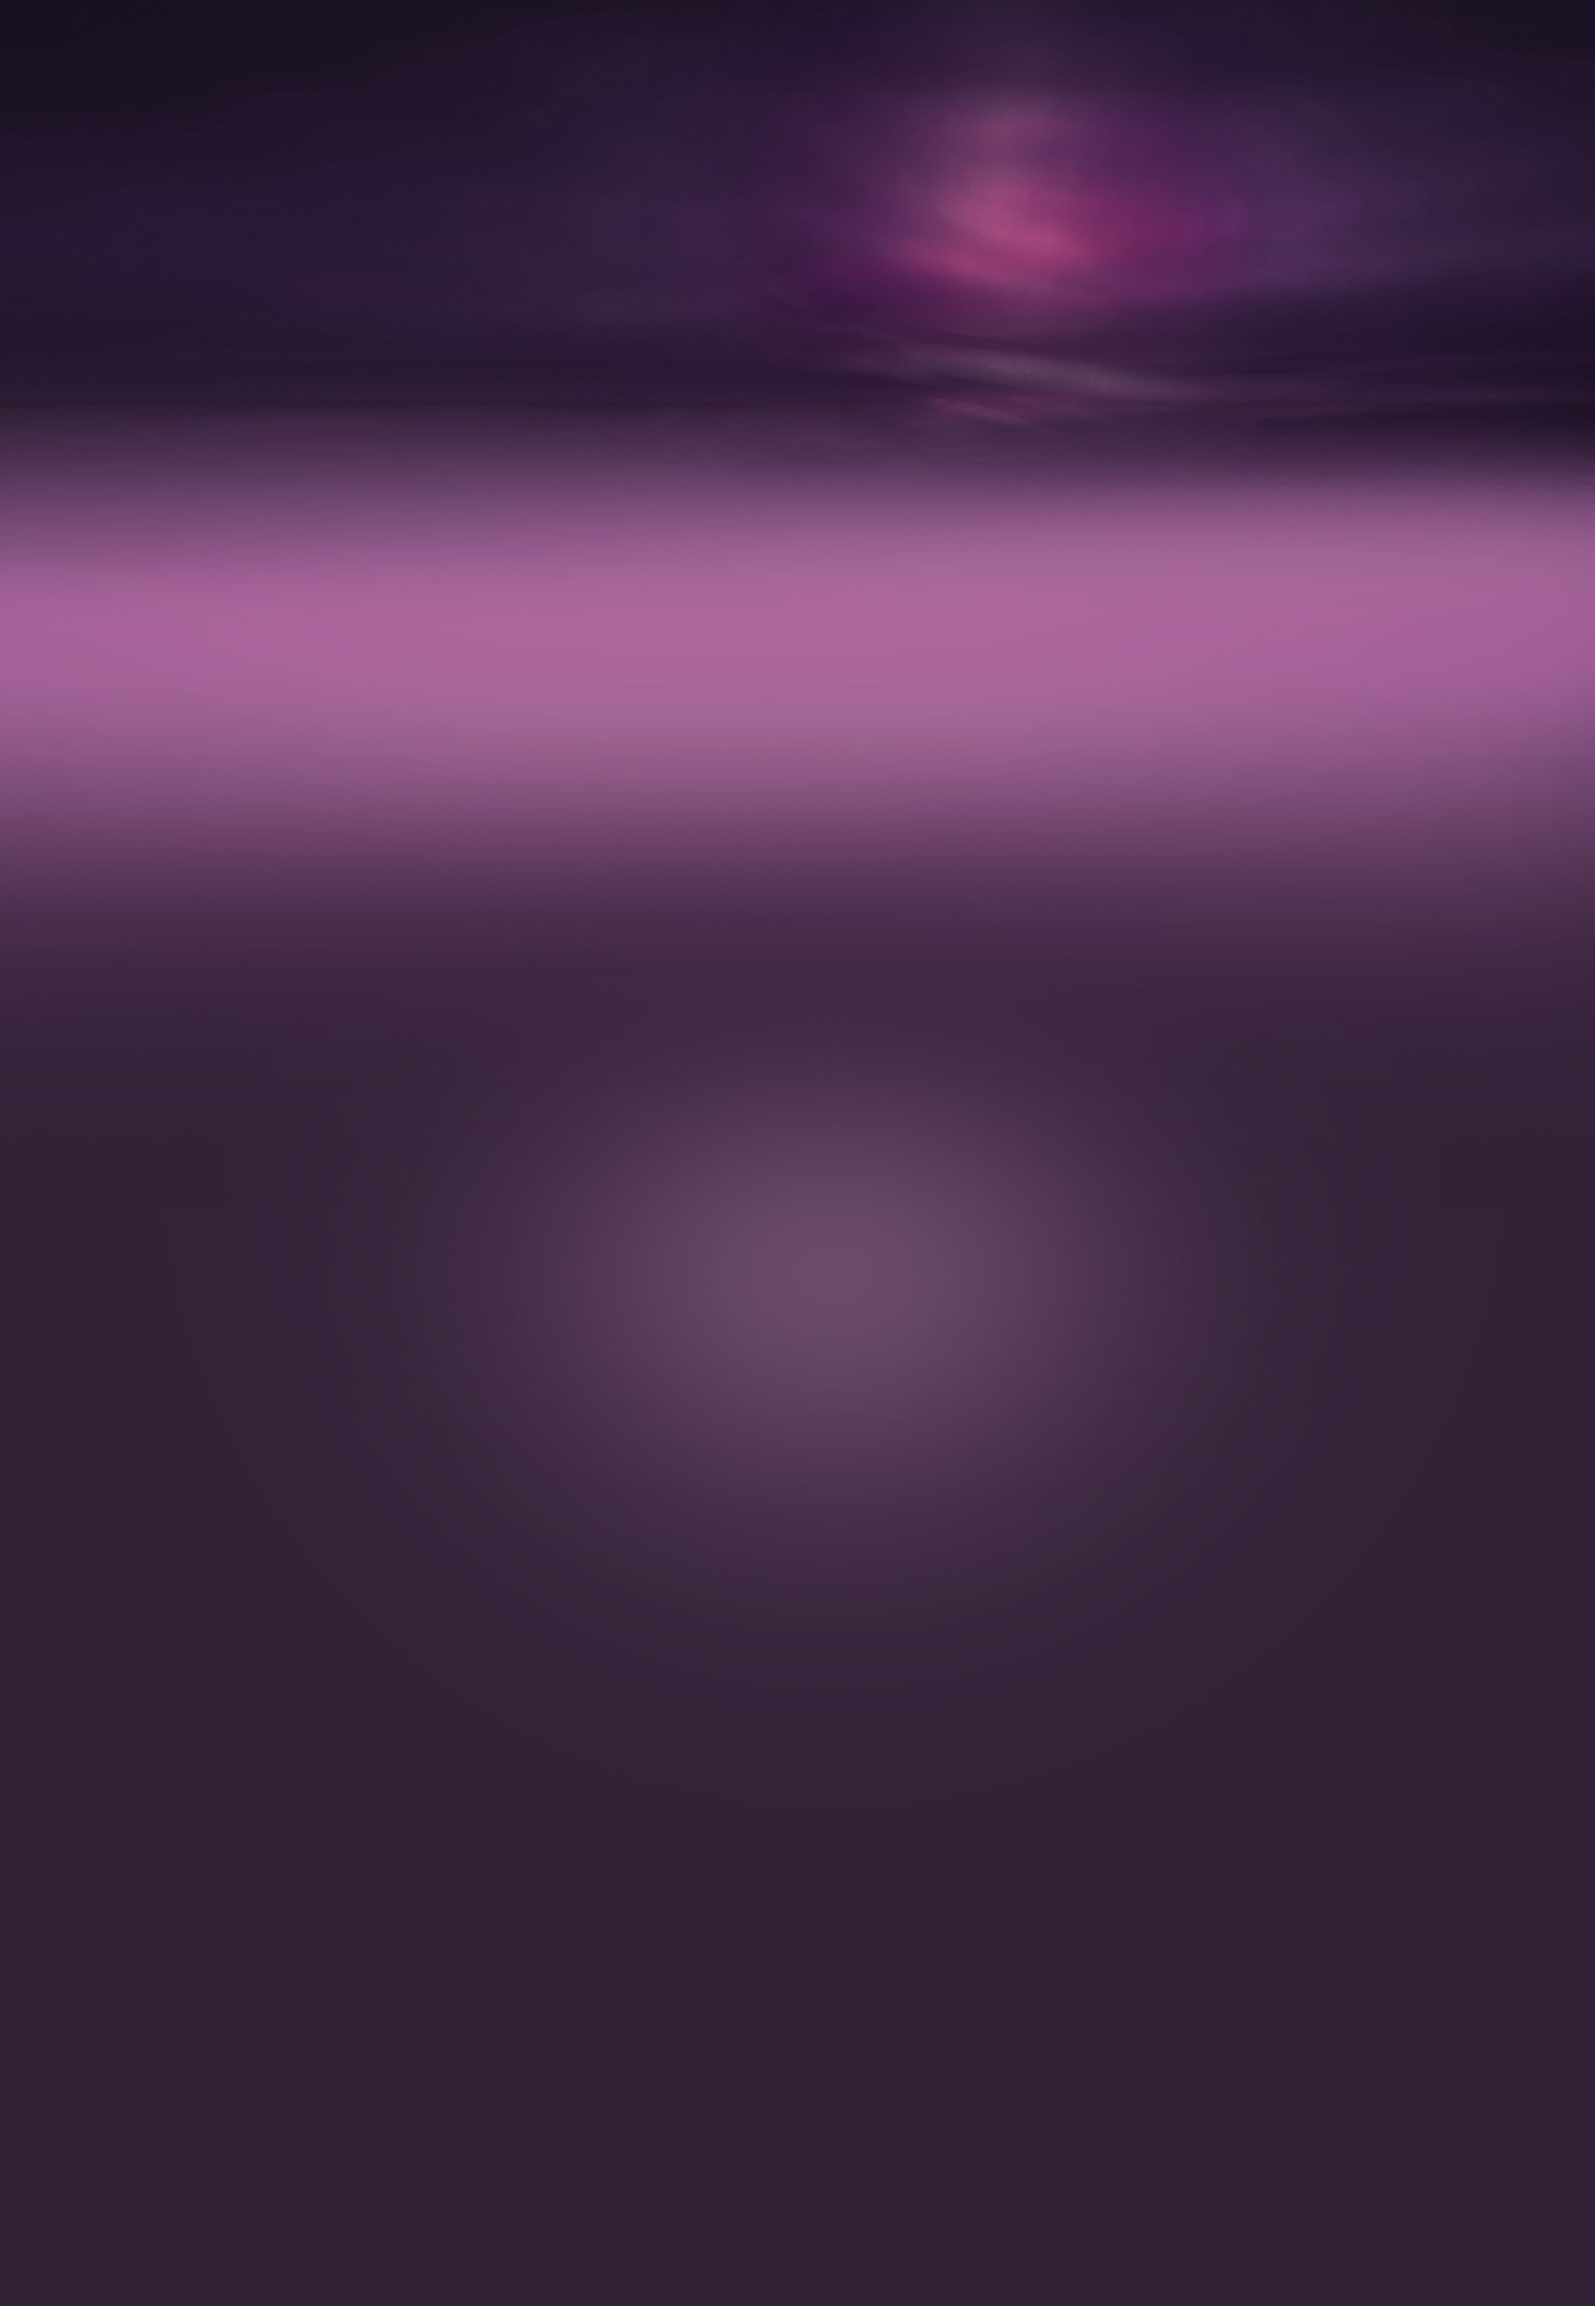
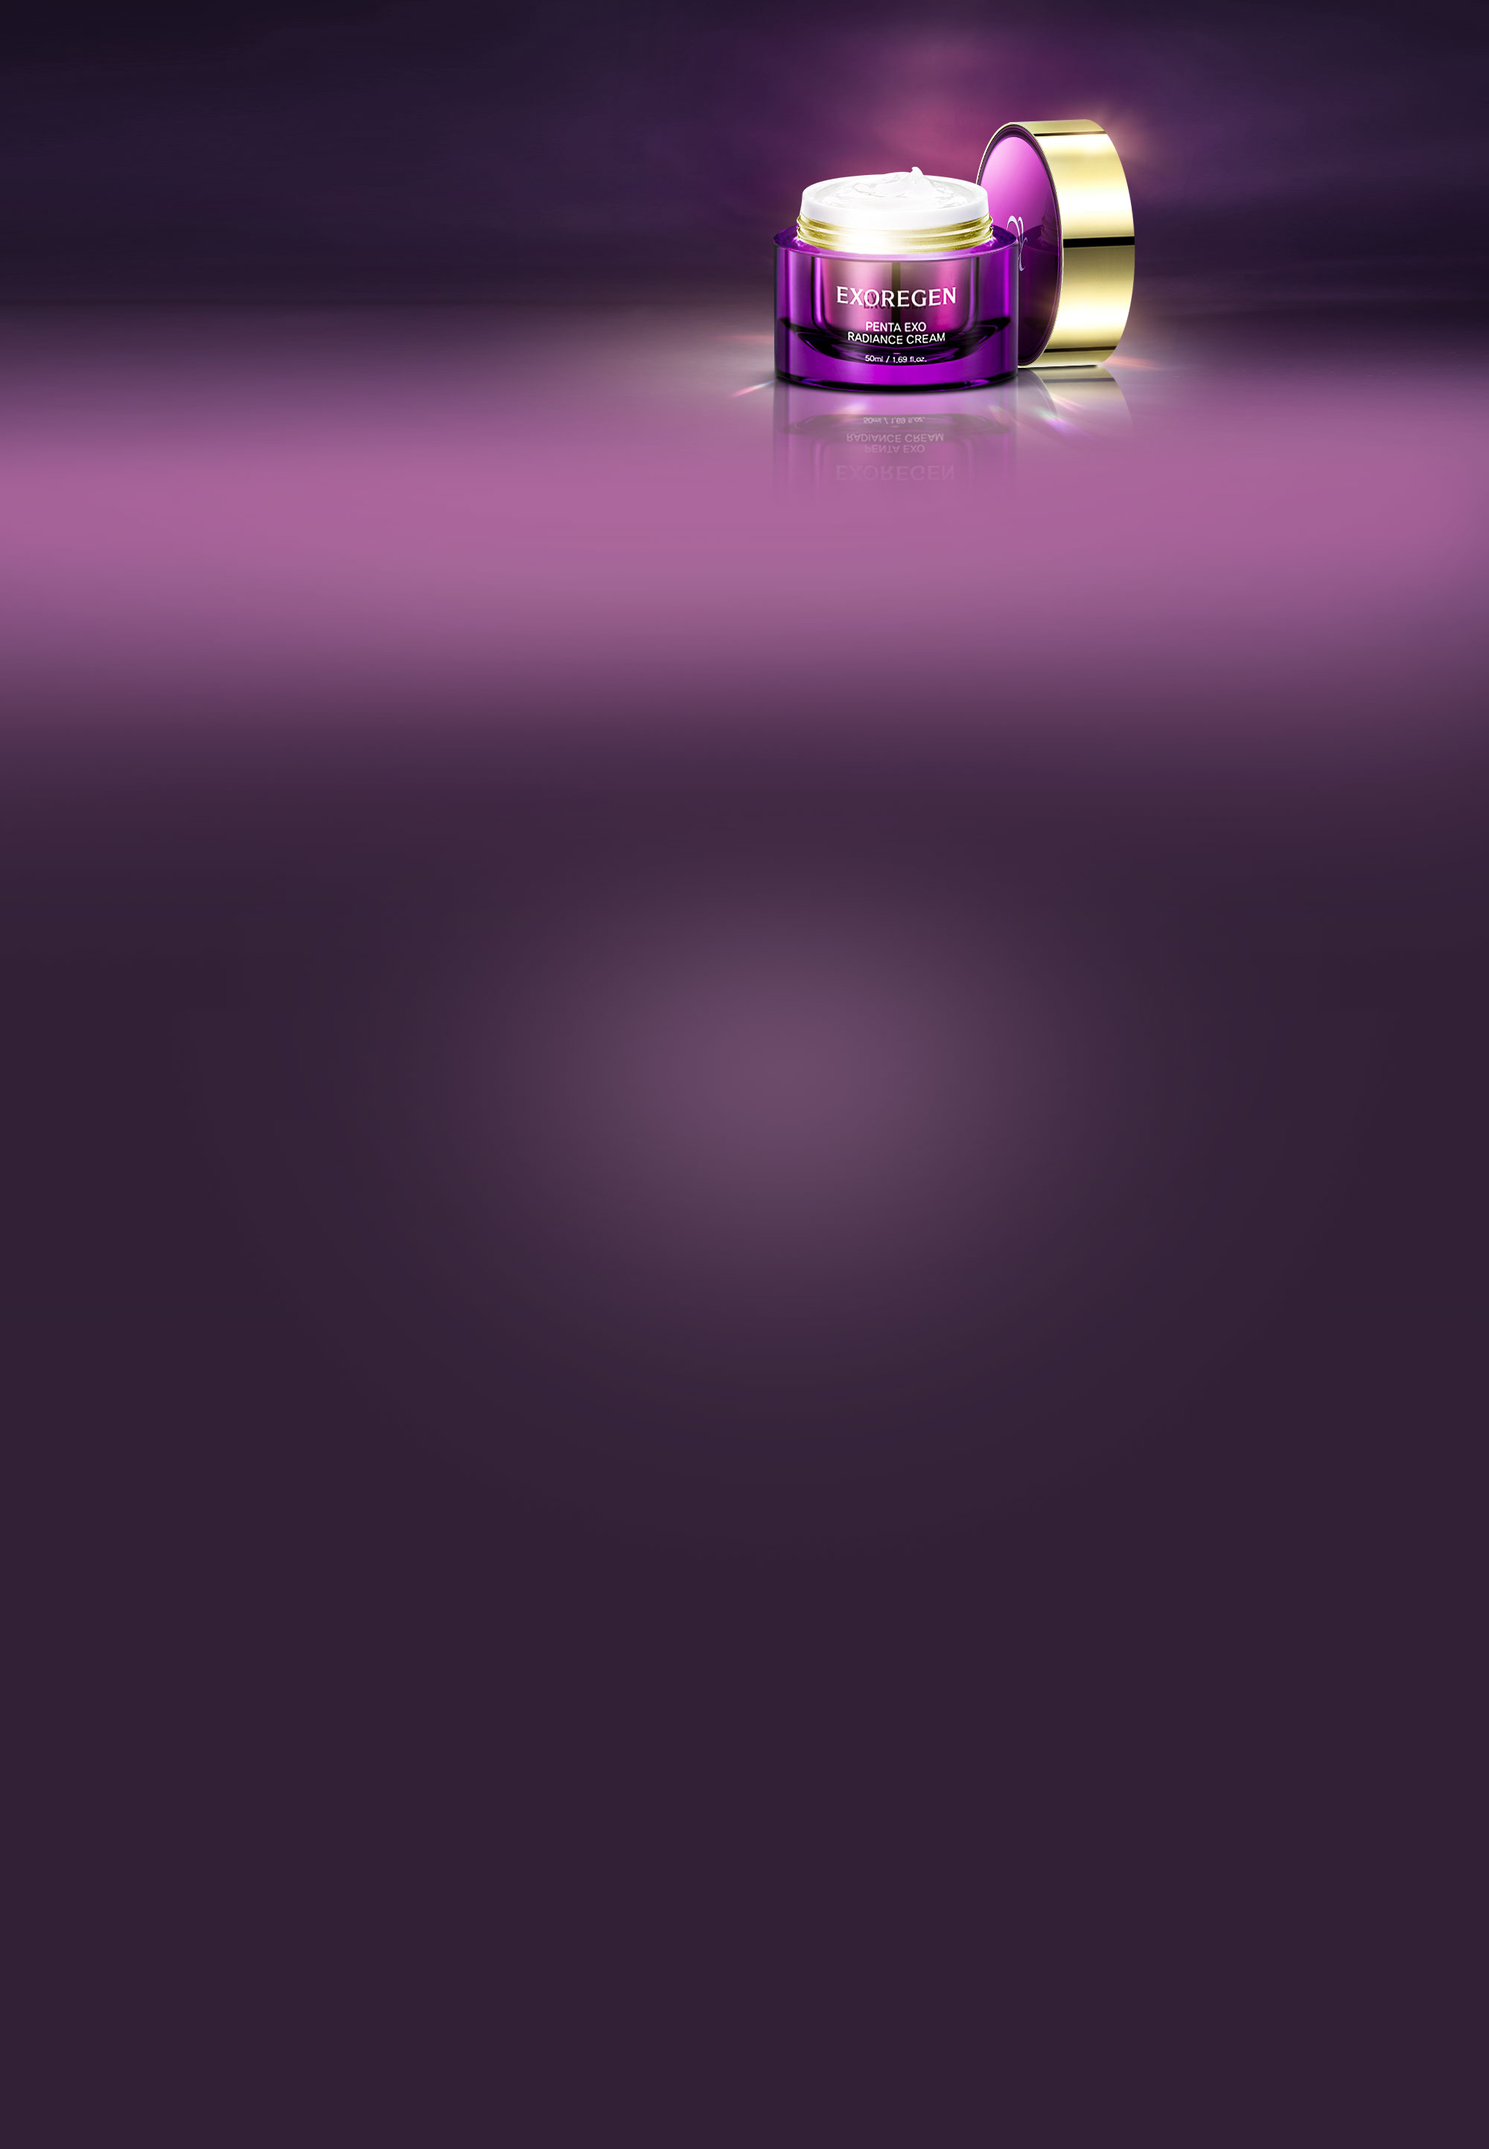
[PC] 제품 랜딩페이지 섹션1 BG이미지 변경

Changed region(s): [[0.0, 0.0, 1.0, 0.4054], [0.496, 0.4366, 0.558, 0.499], [0.496, 0.5613, 0.558, 0.6237]]

diff --git a/landing/penta_landing.html b/landing/penta_landing.html
@@ -268,8 +268,7 @@
     <!-- 제품 첫번째 섹션 -->
     <section class="product-sec">
         <div class="intro-wrap">
-            <video src="/img_/landing/sec1-video.mp4" autoplay muted playsinline poster="/img_/landing/sec1-video-poster.jpg" style="position: relative; z-index: 2;"></video>
-            <img src="/img_/landing/sample-img.jpg" alt="" style="position: absolute; top: 129px;">
+            <video src="/img_/landing/sec1-video.mp4" autoplay muted playsinline poster="/img_/landing/sec1-video-poster.jpg"></video>
         </div>
         <div class="pdt-info-box">
             <div class="pdt-info-txt-wrap">
@@ -431,7 +430,9 @@
 
     <!-- 퍼센테이지 섹션 -->
     <section class="percent-sec">
-
+        <div class="percent-tit-wrap">
+            
+        </div>
     </section>
     <!-- ...퍼센테이지 섹션 -->
 </body>

diff --git a/src_/css/landing1.css b/src_/css/landing1.css
@@ -1,7 +1,8 @@
 .product-sec {
-    background-image: url('/img_/landing/sec1-bg.jpg');
+    background-image: url('/img_/landing/sec1-bg.jpg?ver=220829');
     background-repeat: no-repeat;
     background-size: cover;
+    background-position: center;
     padding-top: 129px;
     min-width: 1200px;
 }
@@ -328,4 +329,11 @@
     color: #572244;
     font-weight: 600;
     font-size: 20px;
+}
+
+.percent-sec {
+    background-image: url('/img_/landing/sec4-bg.jpg');
+    background-repeat: no-repeat;
+    background-size: cover;
+    padding: 115px 0;
 }
